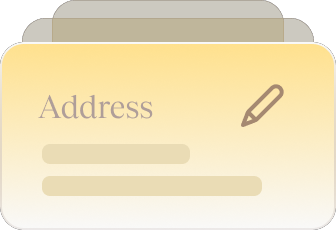
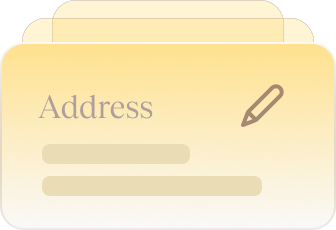
卡片间距大小更改

diff --git a/src/views/HomeView.vue b/src/views/HomeView.vue
@@ -113,15 +113,15 @@
                 <br />your time and money
               </el-text>
             </div>
-            <el-row :align="24" style="height: 100%;">
+            <el-row :align="24">
               <el-col :span="16">
-                <el-col :span="24" style="display: flex; height: 57%;">
-                  <el-col :span="12" style="height: 100%;">
+                <el-col :span="24" style="display: flex;">
+                  <el-col :span="12">
                     <!-- Card 1 - Too many emails -->
                     <el-card class="complexity-card" shadow="hover"
-                      style="height: 100%;display: flex; flex-direction: column;min-height: 430px;">
-                      <div class="card-icon ">
-                        <el-image src="/images/notebook.png" style="width: 20px;height: 20px;" />
+                      style="display: flex; flex-direction: column; height: 460px; width: 384px; position: relative; overflow: hidden;">
+                      <div class="card-icon">
+                        <el-image src="/images/notebook.png" style="width: 24px; height: 24px; margin-bottom: 16px;" />
                         <el-text tag="h3" class="card-title font-TobiasTRIAL">
                           Too many emails. Too<br /> much wasted time.
                         </el-text>
@@ -129,86 +129,82 @@
                           50+ collab emails hit your inbox daily.<br /> Without automation, that's hours lost.
                         </el-text>
                       </div>
-                      <el-image src="/images/emails.png" style="width: 100%;height: 57%;" />
-                      <!-- <div class="card-image emails-image" style="margin-top: auto;"></div> -->
+                      <el-image src="/images/emails.png"
+                        style="width: 100%;height: 100%;position: absolute; bottom: 0; left: 0; right: 0;" />
                     </el-card>
                   </el-col>
-                  <el-col :span="12" style="display: flex; flex-direction: column;height: 100%;">
+                  <el-col :span="12" style="display: flex; flex-direction: column;">
                     <!-- Card 2 - Slow reply -->
-                    <el-card class="complexity-card" shadow="hover" style="height: 45%;min-height: 180px; ">
+                    <el-card class="complexity-card" shadow="hover"
+                      style="height: 195px;width: 384px; position: relative; overflow: hidden;">
                       <div class="card-icon">
-                        <el-image src="/images/clock.png" style="width: 20px;height: 20px;" />
-                        <div style="display: flex;">
-                          <el-text tag="h3" class="card-title font-TobiasTRIAL">
-                            Every slow reply is <br />a lost chance.
-                          </el-text>
-                          <el-image src="/images/hours.png"
-                            style="width: 20%;height:20%;margin-top: -20px;margin-left: 20px;" class="chat-bubbles" />
-                        </div>
+                        <el-image src="/images/clock.png" style="width: 24px; height: 24px;" />
                       </div>
+                      <el-text tag="h3" class="card-title font-TobiasTRIAL" style="">
+                        Every slow reply is <br />a lost chance.
+                      </el-text>
+                      <el-image src="/images/hours.png"
+                        style="position: absolute; top: 45px; right: 40px;width:100px ;" />
+
                     </el-card>
                     <!-- Card 3 - Hours wasted -->
                     <el-card class="complexity-card hours-card" shadow="hover"
-                      style="height: 51%;margin-top: 20px;min-height: 230px;">
+                      style="height: 230px;margin-top: 32px; width: 384px;">
 
                     </el-card>
                   </el-col>
                 </el-col>
-                <el-col :span="24" style="height: 40%;margin-top: 25px;">
+                <el-col :span="24" style="margin-top: 32px;">
                   <!-- Card 6 - Repetition -->
                   <el-card class="complexity-card wide-card" shadow="hover"
-                    style="height: 97%; display: flex; flex-direction: column;">
+                    style="width: 799px;height: 244px; display: flex; flex-direction: column; position: relative; overflow: hidden;">
                     <div class="card-icon">
-                      <el-image src="/images/pencil.png" style="width: 20px;height: 20px;" />
-                      <el-text tag="h3" class="card-title font-TobiasTRIAL">
-                        Repetition kills productivity.<br /> Automation restores it.
-                      </el-text>
-                      <div style="display: flex;margin-top: -20px;">
-                        <el-text tag="p" class="card-description">
-                          Brand deals involve endless repeats—addresses, quotes, media
-                          <br /> kits. Coolla handles it all in
-                          one
-                          click.
-                        </el-text>
-                        <el-image src="/images/Address.png" style="width: 20%;height:20%;margin-left:20%;" />
-                      </div>
+                      <el-image src="/images/pencil.png" style="width: 24px; height: 24px; " />
                     </div>
+                    <el-text tag="h3" class="card-title font-TobiasTRIAL">
+                      Repetition kills productivity.<br /> Automation restores it.
+                    </el-text>
+                    <el-text tag="p" class="card-description">
+                      Brand deals involve endless repeats—addresses, quotes, media<br />
+                      kits. Coolla handles it all in one click.
+                    </el-text>
+                    <el-image src="/images/Address.png"
+                      style="position: absolute; right: 80px; top: 55%; transform: translateY(-50%); width: 168px; height: 115px;" />
                   </el-card>
                 </el-col>
               </el-col>
-              <el-col :span="8" style="display: flex;flex-direction: column;height: 100%;">
-                <el-card class="complexity-card " shadow="hover" style="height: 40%;min-height: 356px;">
+              <el-col :span="8" style="display: flex;flex-direction: column;">
+                <el-card class="complexity-card" shadow="hover"
+                  style="height: 356px; width: 384px;position: relative; overflow: hidden;">
                   <div class="card-icon">
-                    <el-image src="/images/warning.png" style="width: 20px;height: 20px;" />
-                    <el-text tag="h3" class="card-title font-TobiasTRIAL">
-                      Struggle to negotiate?
-                      <br /> Lose the price you deserve.
-                    </el-text>
-
+                    <el-image src="/images/warning.png" style="width: 24px; height: 24px;" />
                   </div>
-                  <el-row style="justify-content: center;align-items: center;margin-top: 10%;">
-                    <el-image src="/images/lowPrice.png" style="width: 50%;height: 20%;" />
-                  </el-row>
+                  <el-text tag="h3" class="card-title font-TobiasTRIAL">
+                    Struggle to negotiate?
+                    <br /> Lose the price you deserve.
+                  </el-text>
+                  <el-image src="/images/lowPrice.png"
+                    style="position: absolute; bottom: 30px; left: 50%; transform: translateX(-50%);" />
 
                 </el-card>
                 <!-- Card 5 - Contracts -->
-                <el-card class="complexity-card" shadow="hover" style="height: 60%;margin-top: 20px;min-height: 360px;">
+                <el-card class="complexity-card" shadow="hover"
+                  style="margin-top: 32px;width: 384px;height: 349px;background-color: #F9F9F9;border-radius: 24px;padding: 40px;position: relative;overflow: hidden;">
                   <div class="card-icon">
                     <el-image src="/images/document.png" style="width: 20px;height: 20px;" />
-                    <el-text tag="h3" class="card-title font-TobiasTRIAL">
-                      Struggle with contracts?<br />
-                      Unequal contracts can<br />
-                      harm your rights.
-                    </el-text>
-                    <div style="display: flex;margin-top: -40px;">
-                      <el-text tag="p" class="card-description">
-                        Contract review is<br />
-                        time-consuming<br />
-                        and error-prone
-                      </el-text>
-                      <el-image src="/images/contract.png" style="width: 30%;height: 20%;margin-left:20%;" />
-                    </div>
                   </div>
+                  <el-text tag="h3" class="card-title font-TobiasTRIAL">
+                    Struggle with contracts?<br />
+                    Unequal contracts can<br />
+                    harm your rights.
+                  </el-text>
+                  <el-text tag="p" class="card-description">
+                    Contract review is<br />
+                    time-consuming<br />
+                    and error-prone
+                  </el-text>
+                  <el-image src="/images/contract.png"
+                    style="position: absolute; right: 40px; bottom: 20px;width: 153px; height: 250px;" />
                 </el-card>
               </el-col>
             </el-row>
@@ -1495,6 +1491,8 @@ export default {
 .inbox-complexity-section {
   padding: 20px 0;
   padding-bottom: 50px;
+  max-width: 1280px;
+  margin: 0 auto;
 }
 
 .section-title {
@@ -1513,10 +1511,12 @@ export default {
 .complexity-card {
   background-color: #f9f9f9;
   border: 1px solid #D6D7DB;
-  border-radius: 16px;
+  border-radius: 24px;
   transition: all 0.3s ease;
   position: relative;
-  margin-right: 12px;
+  font-size: 24px;
+  margin-right: 32px;
+  padding: 40px;
   box-shadow: 0 6px 16px rgba(0, 0, 0, 0.08) !important;
 }
 
@@ -1532,13 +1532,12 @@ export default {
 .card-icon {
   font-size: 24px;
   color: #333;
-  padding: 20px 40px 0 40px;
+  margin-bottom: 14px;
 }
 
 .card-title {
   font-size: 24px;
   font-weight: 700;
-  margin-bottom: 16px;
   line-height: 1.3;
   display: block;
 }
@@ -1596,7 +1595,8 @@ export default {
 
 /* Hours card specific styles */
 .hours-card {
-  background-color: #F5D0C5;
+  border: none;
+  border-radius: 24px;
   background-image: url("/images/4days.png");
   background-size: cover;
 }
